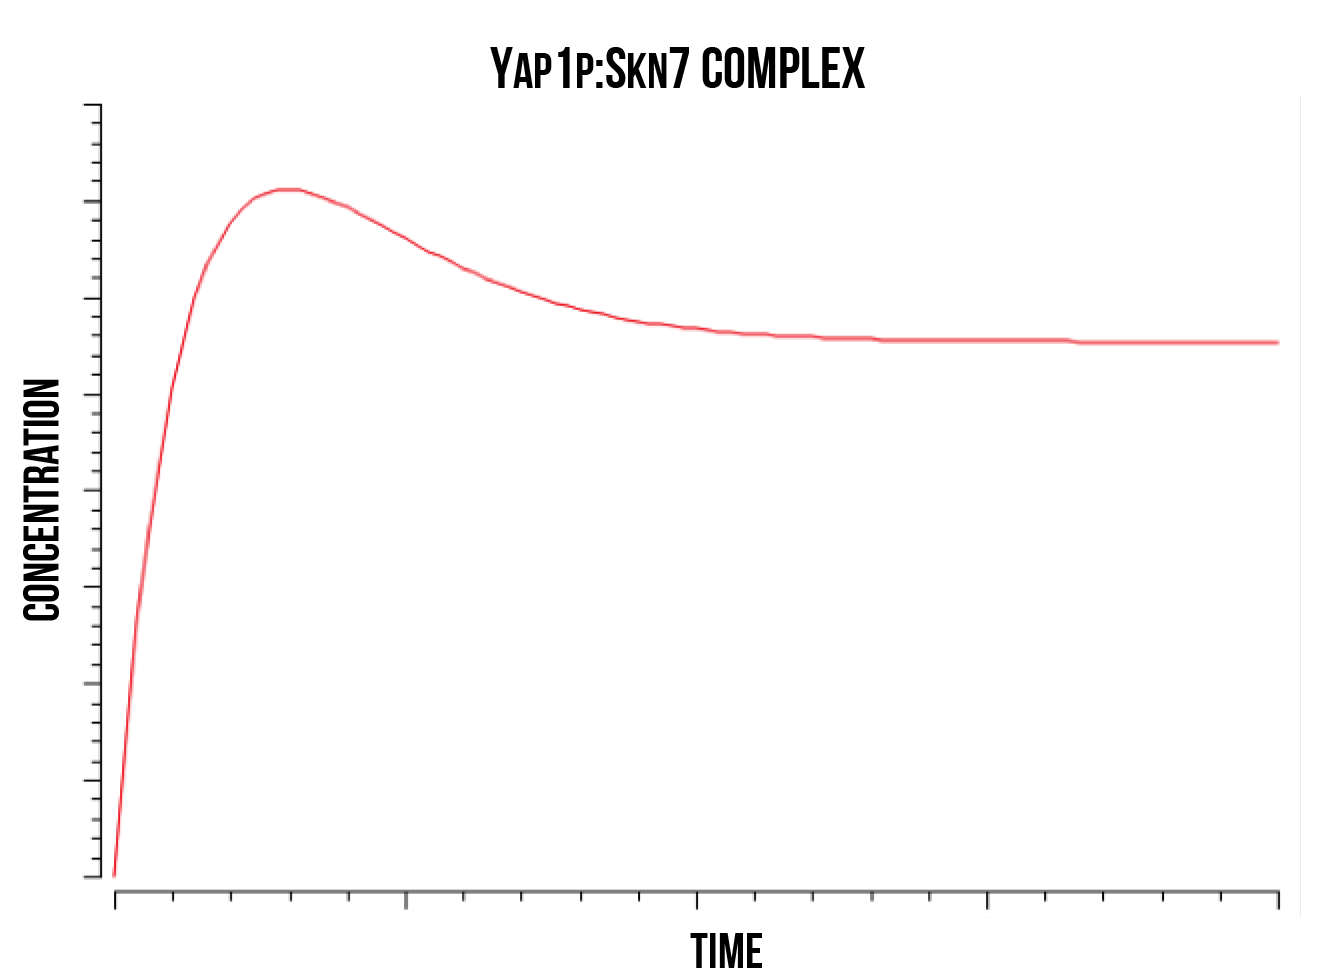
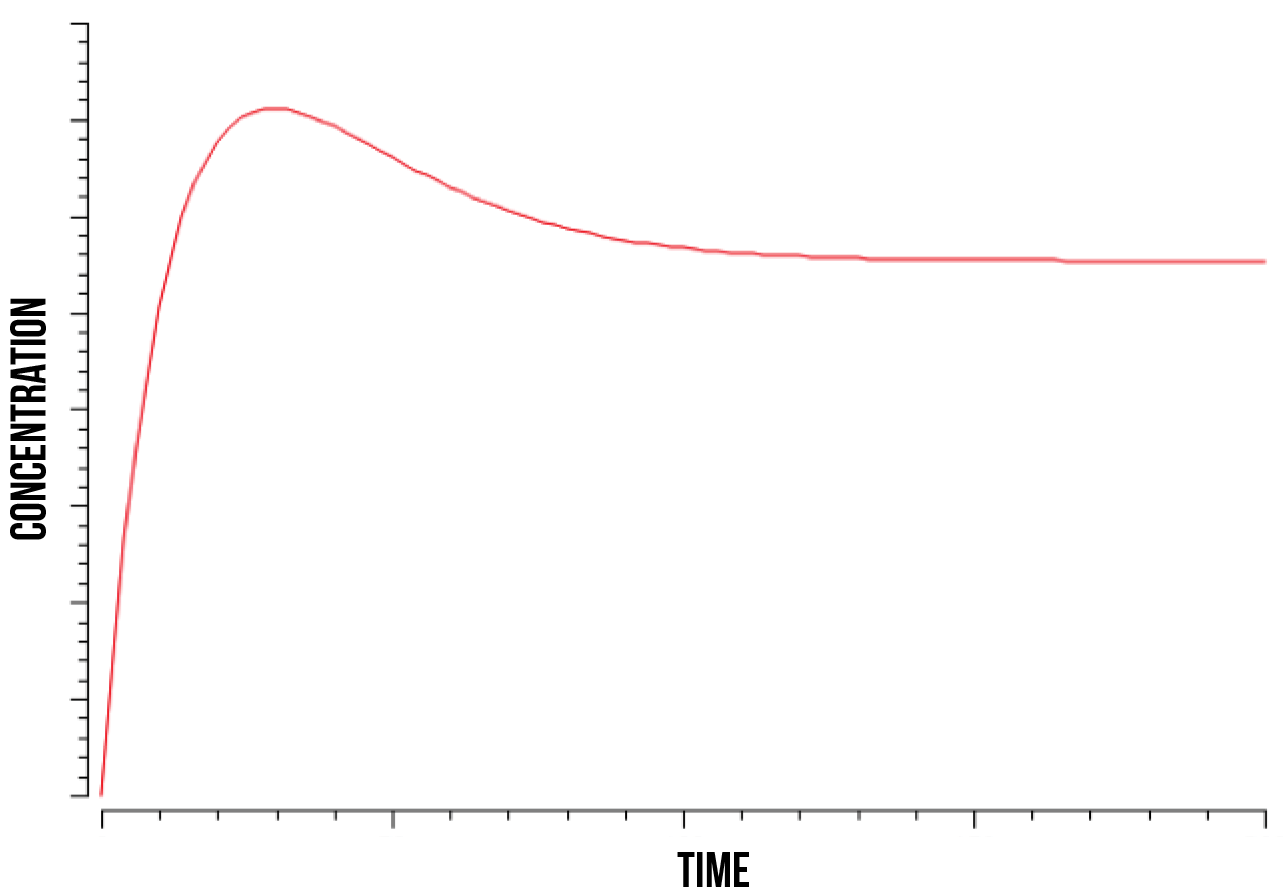
lab

diff --git a/model.html b/model.html
@@ -91,7 +91,7 @@
 		<br></br>
 
 		<div class="sectionjee">
-				<h2 style="float:left; margin-left:100px; padding-top: 5px; font-family: im_fell_french_canon_proIt; font-size: 40px;">&ldquo;<i style="font-family: robotolight; font-size: 19px;">As an Oxidative Stress Response mechanism, Yap1p is localized and accumulated in the nucleus.</i>&rdquo;</h2><br></br>
+				<h2 style="font-family: im_fell_french_canon_proIt; font-size: 20px;">&ldquo;<i style="font-family: robotolight; font-size: 19px;">As an Oxidative Stress Response mechanism, Yap1p is localized and accumulated in the nucleus.</i>&rdquo;</h2><br></br>
 		</div>
 		<br></br>
 
@@ -122,7 +122,7 @@
 		</div>
 		</br>
 		<div class="sectionjee">
-				<h2 style="float:left; margin-left:100px; padding-top: 5px; font-family: im_fell_french_canon_proIt; font-size: 40px;">&ldquo;<i style="font-family: robotolight; font-size: 19px;"> The activation mechanisms of transcription factors Yap1p and Skn7 are higly correlated.</i>&rdquo;</h2><br></br>
+				<h2 style="font-family: im_fell_french_canon_proIt; font-size: 20px;">&ldquo;<i style="font-family: robotolight; font-size: 19px;">The activation mechanisms of transcription factors Yap1p and Skn7 are higly correlated.</i>&rdquo;</h2><br></br>
 		</div>
 	</br>
 		<div class="container" style="width: 75%; font-family: robotolight; color: #4d4d33">
@@ -249,7 +249,7 @@
 			In figure 5, we show a plot of the quantity of oxidised Yap1p:Skn7 complex in the nucleus after a kinase has stabilized the bond. We can observe how its quantity increases until it reaches its peak and then decreases until stabilising again. This phenomenon was observed at wide numeric ranges in the Skn7 concentration and YAP1P localisation rate in the nucleus when in stress.
 			</p><br></br>
 			<figure style="text-align: center">
-                    <img style="width:50%; height: 50%;" src="img/plot5.png"><figcaption style="text-align: center">
+                    <img style="width:50%; height: 50%;" src="img/plot1.png"><figcaption style="text-align: center">
 					Figure 5. The quantity of oxidised Yap1p:Skn7 complex in the nucleus after a kinase has stabilized the bond.
 					</figcaption>
         </figure>
@@ -302,7 +302,7 @@
 			</div>
 				</br>
 			<div class="sectionjee">
-				<h2 style="float:left; margin-left:100px; padding-top: 5px; font-family: im_fell_french_canon_proIt; font-size: 40px;">&ldquo;<i style="font-family: robotolight; font-size: 19px;">Our model supports the hypothesis that Yap1p and Skn7 play a crucial role in the immediate oxidative stress response of the cell</i>&rdquo;</h2><br></br>
+				<h2 style="font-family: im_fell_french_canon_proIt; font-size: 20px;">&ldquo;<i style="font-family: robotolight; font-size: 19px;">Our model supports the hypothesis that Yap1p and Skn7 play a crucial role in the immediate oxidative stress response of the cell</i>&rdquo;</h2><br></br>
 			</div>
 	</br>
 		<div class="container" style="width: 75%; font-family: robotolight; color: #4d4d33">
